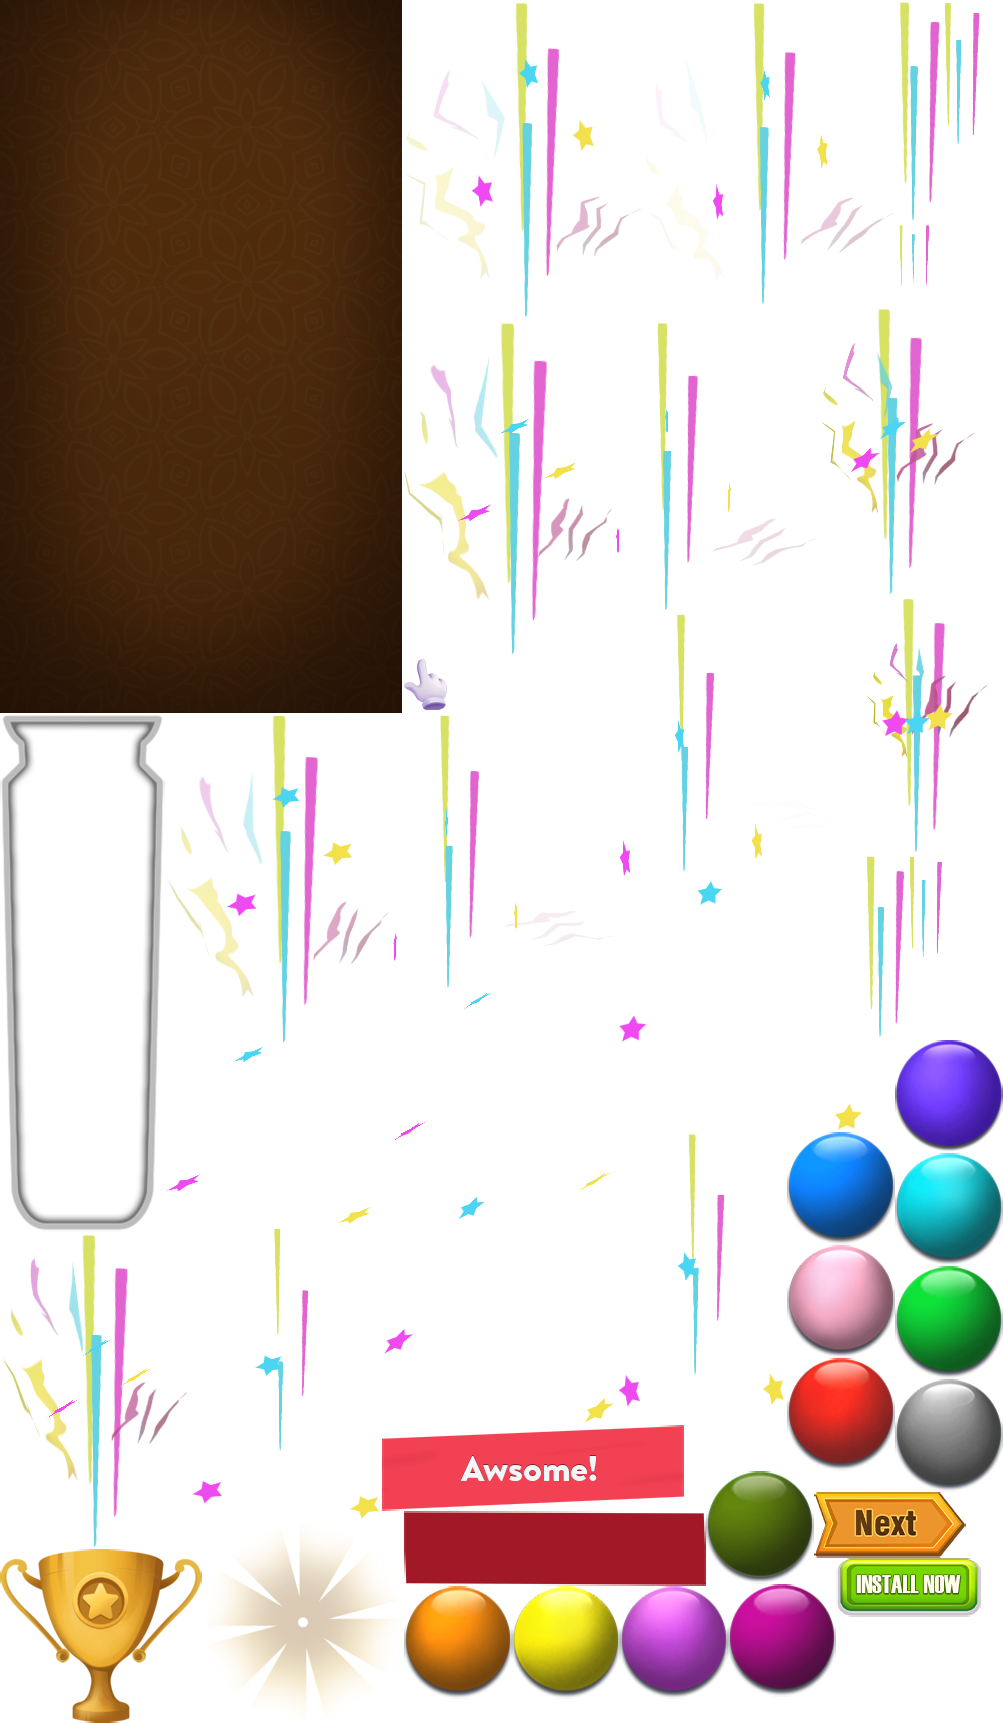
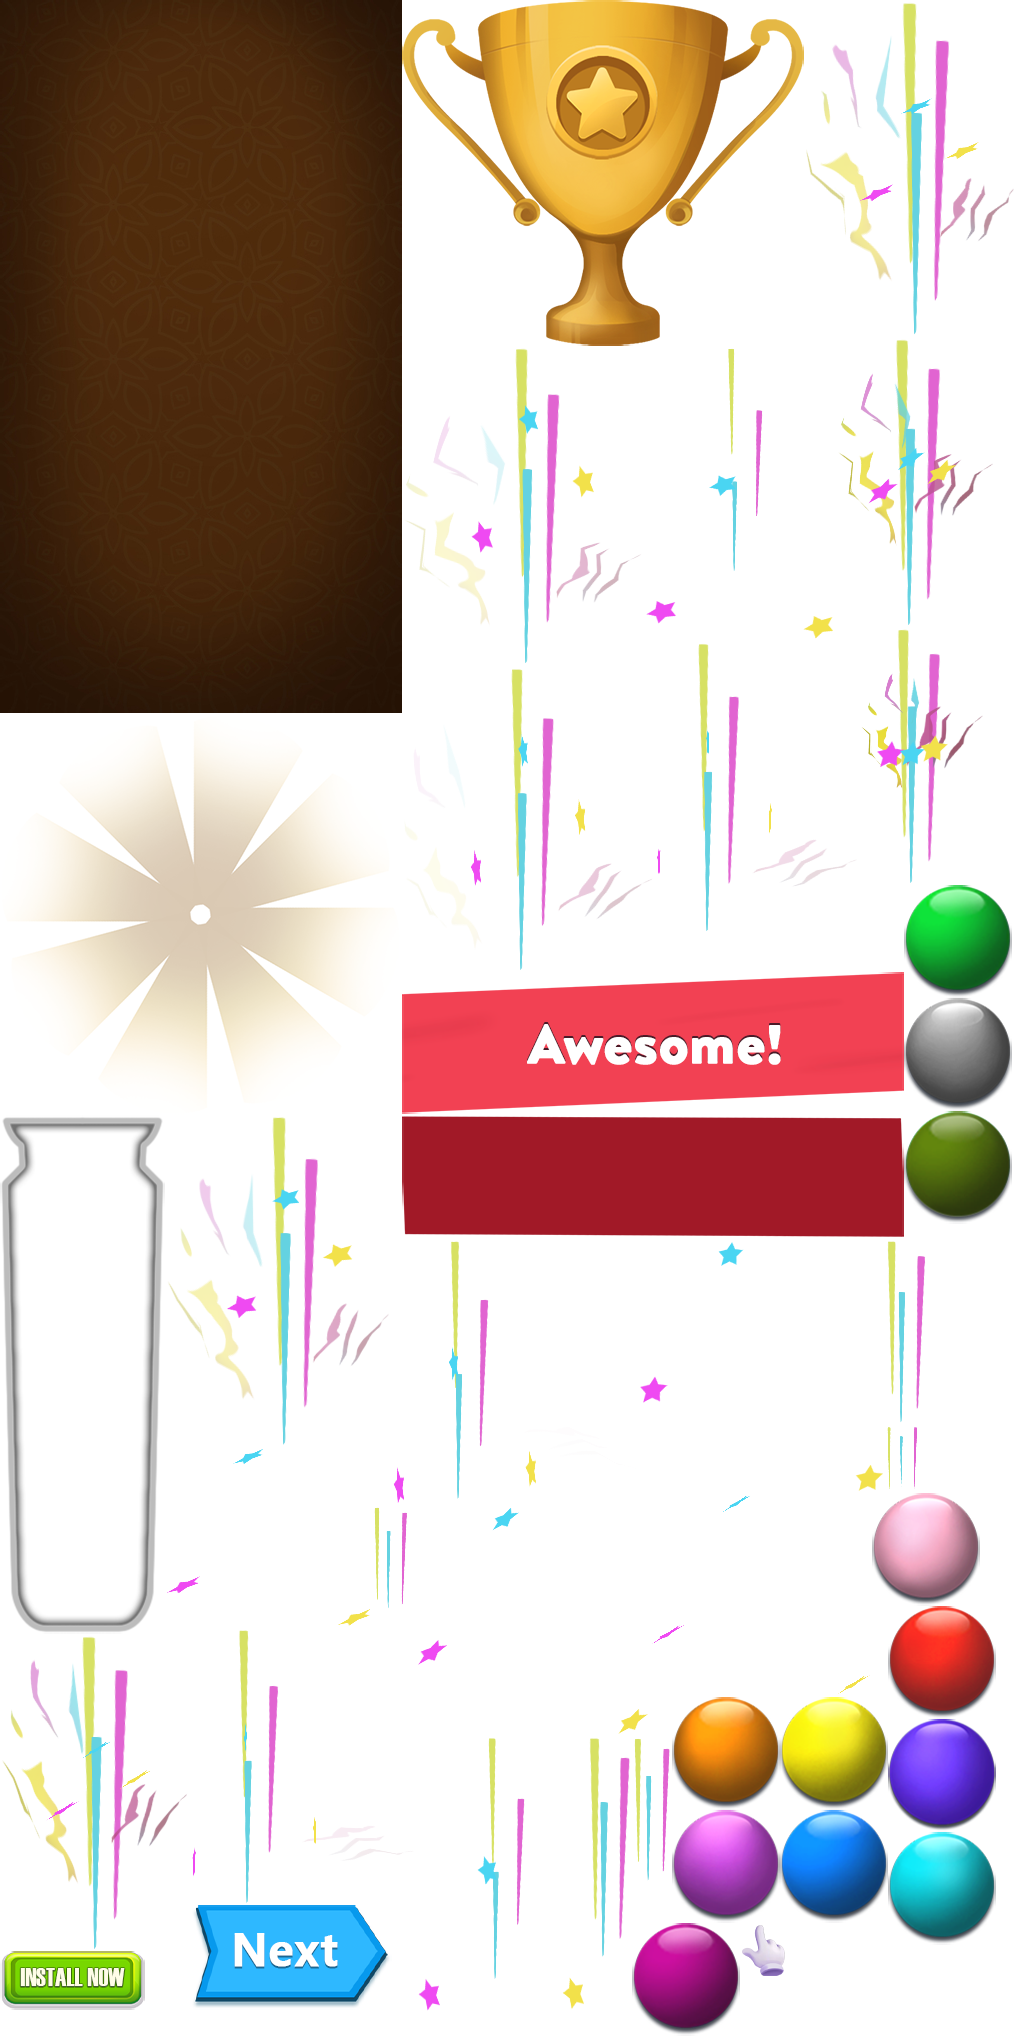
dddđ

diff --git a/libs/Sortball.js b/libs/Sortball.js
@@ -18,7 +18,8 @@ var map = [
 ]
 var listBottle = []
 function changeOrientation(event) {
-    if (tutorial) clearTutorial()
+    if (tutorialRun) clearTutorial()
+    clearInterval(tutorial);
     removeEvent()
     stage.removeAllChildren()
     listBottle = []
@@ -27,7 +28,7 @@ function changeOrientation(event) {
     setMap()
     if (!complete) gameWin()
     else addEvent();
-    if (tutorial) renderTutorial()
+    renderTutorial()
 }
 async function gameinit() {
     createjs.RotationPlugin.install();
@@ -49,10 +50,8 @@ function setStage() {
     height = window.innerHeight
         || document.documentElement.clientHeight
         || document.body.clientHeight;
-    console.log({ width: width, height: height });
 
     if (width >= height || !isMobile) width = height / 1.7;
-    console.log({ width: width, height: height });
     radiusMask = width / 22
 
     canvas = document.getElementById("myCanvas");
@@ -75,78 +74,77 @@ function setAnimation() {
         framerate: 25,
         frames: [
             [1, 1, 400, 711, 0, 0, 0],
-            [1, 714, 163, 517, 0, 0, 0],
-            [403, 1, 240, 318, 0, -186, -18],
-            [645, 1, 251, 304, 0, -191, -10],
-            [166, 714, 224, 330, 0, -191, -29],
-            [403, 321, 210, 335, 0, -199, -48],
-            [1, 1233, 188, 315, 0, -215, -92],
-            [166, 1046, 205, 179, 0, -212, -158],
-            [191, 1227, 190, 293, 0, -220, -14],
-            [1, 1550, 200, 172, 0, 0, 0],
-            [203, 1522, 200, 200, 0, 0, 0],
-            [615, 321, 202, 290, 0, -258, -3],
-            [819, 307, 157, 288, 0, -237, -144],
-            [392, 714, 224, 275, 0, -253, -1],
-            [618, 613, 245, 264, 0, -243, 0],
-            [618, 879, 245, 252, 0, -194, -201],
-            [865, 597, 124, 256, 0, -258, -202],
-            [392, 991, 220, 202, 0, -206, -174],
-            [383, 1195, 232, 229, 0, -201, -186],
-            [617, 1133, 169, 275, 0, -231, -4],
-            [383, 1426, 300, 84, 0, 0, 0],
-            [405, 1512, 300, 73, 0, 0, 0],
-            [898, 1, 43, 221, 0, -294, -264],
-            [865, 855, 41, 184, 0, -294, -328],
-            [405, 1587, 106, 111, 0, 0, 0],
-            [513, 1587, 106, 111, 0, 0, 0],
-            [621, 1587, 106, 111, 0, 0, 0],
-            [788, 1133, 106, 111, 0, 0, 0],
-            [788, 1246, 106, 111, 0, 0, 0],
-            [943, 1, 38, 145, 0, -294, -394],
-            [788, 1359, 106, 111, 0, 0, 0],
-            [896, 1041, 106, 111, 0, 0, 0],
-            [896, 1154, 106, 111, 0, 0, 0],
-            [896, 1267, 106, 111, 0, 0, 0],
-            [896, 1380, 106, 111, 0, 0, 0],
-            [908, 855, 35, 104, 0, -294, -462],
-            [403, 658, 45, 53, 0, -5, -1],
-            [707, 1472, 106, 111, 0, 0, 0],
-            [729, 1585, 106, 111, 0, 0, 0],
-            [815, 1493, 150, 64, 0, 0, 0],
-            [837, 1559, 143, 57, 0, 0, 0],
-            [898, 224, 32, 62, 0, -294, -531]
+            [1, 714, 400, 400, 0, 0, 0],
+            [403, 1, 400, 344, 0, 0, 0],
+            [1, 1116, 163, 517, 0, 0, 0],
+            [403, 347, 240, 318, 0, -186, -18],
+            [166, 1116, 224, 330, 0, -191, -29],
+            [805, 1, 210, 335, 0, -199, -48],
+            [403, 667, 251, 304, 0, -191, -10],
+            [1, 1635, 188, 315, 0, -215, -92],
+            [645, 347, 190, 293, 0, -220, -14],
+            [656, 642, 202, 290, 0, -258, -3],
+            [837, 338, 157, 288, 0, -237, -144],
+            [403, 973, 500, 140, 0, 0, 0],
+            [403, 1115, 500, 123, 0, 0, -9],
+            [392, 1240, 245, 264, 0, -243, 0],
+            [639, 1240, 245, 252, 0, -194, -201],
+            [166, 1448, 205, 179, 0, -212, -158],
+            [191, 1629, 224, 275, 0, -253, -1],
+            [860, 628, 124, 256, 0, -258, -202],
+            [417, 1506, 232, 229, 0, -201, -186],
+            [651, 1494, 220, 202, 0, -206, -174],
+            [417, 1737, 169, 275, 0, -231, -4],
+            [588, 1737, 43, 221, 0, -294, -264],
+            [191, 1906, 200, 103, 0, 0, 0],
+            [886, 1240, 41, 184, 0, -294, -328],
+            [1, 1952, 143, 57, 0, 0, 0],
+            [633, 1737, 38, 145, 0, -294, -394],
+            [673, 1698, 106, 111, 0, 0, 0],
+            [781, 1698, 106, 111, 0, 0, 0],
+            [673, 1811, 106, 111, 0, 0, 0],
+            [781, 1811, 106, 111, 0, 0, 0],
+            [873, 1494, 106, 111, 0, 0, 0],
+            [373, 1506, 35, 104, 0, -294, -462],
+            [889, 1607, 106, 111, 0, 0, 0],
+            [889, 1720, 106, 111, 0, 0, 0],
+            [889, 1833, 106, 111, 0, 0, 0],
+            [905, 886, 106, 111, 0, 0, 0],
+            [905, 999, 106, 111, 0, 0, 0],
+            [905, 1112, 106, 111, 0, 0, 0],
+            [633, 1924, 106, 111, 0, 0, 0],
+            [741, 1924, 45, 53, 0, -5, -1],
+            [886, 1426, 32, 62, 0, -294, -531]
         ],
-
         "animations": {
-            "ball_1": { "frames": [24] },
-            "ball_2": { "frames": [28] },
-            "ball_3": { "frames": [30] },
-            "ball_4": { "frames": [31] },
-            "ball_5": { "frames": [32] },
-            "ball_6": { "frames": [33] },
-            "ball_7": { "frames": [34] },
-            "ball_8": { "frames": [37] },
-            "ball_9": { "frames": [38] },
-            "ball_10": { "frames": [25] },
-            "ball_11": { "frames": [26] },
-            "ball_12": { "frames": [27] },
+            "ball_1": { "frames": [27] },
+            "ball_2": { "frames": [31] },
+            "ball_3": { "frames": [33] },
+            "ball_4": { "frames": [34] },
+            "ball_5": { "frames": [35] },
+            "ball_6": { "frames": [36] },
+            "ball_7": { "frames": [37] },
+            "ball_8": { "frames": [38] },
+            "ball_9": { "frames": [39] },
+            "ball_10": { "frames": [28] },
+            "ball_11": { "frames": [29] },
+            "ball_12": { "frames": [30] },
             "bg": { "frames": [0] },
-            "bottle": { "frames": [1] },
-            "confetti": { "frames": [41, 35, 29, 23, 22, 16, 12, 6, 5, 4, 2, 3, 11, 13, 14, 19, 8, 7, 17, 18, 15] },
-            "img_cup": { "frames": [9] },
-            "eff_cup": { "frames": [10] },
-            "win2": { "frames": [20] },
-            "win1": { "frames": [21] },
-            "hand_tut": { "frames": [36] },
-            "btn_next": { "frames": [39] },
-            "btn_install_now": { "frames": [40] }
+            "eff_cup": { "frames": [1] },
+            "img_cup": { "frames": [2] },
+            "bottle": { "frames": [3] },
+            "confetti": { "frames": [41, 32, 26, 24, 22, 18, 11, 8, 6, 5, 4, 7, 10, 17, 14, 21, 9, 16, 20, 19, 15] },
+            "win2": { "frames": [12] },
+            "win1": { "frames": [13] },
+            "btn_next": { "frames": [23] },
+            "btn_install_now": { "frames": [25] },
+            "hand_tut": { "frames": [40] }
         },
     });
     setBackground()
     setMap()
     addEvent();
-    if (tutorial) renderTutorial()
+    renderTutorial()
 }
 var bottleBase, ballBase
 function setBackground() {
@@ -346,7 +344,15 @@ function currentMouse(evt) {
     return { x: evt.stageX, y: evt.stageY }
 }
 function upBallChoose() {
-    if (tutorial) clearTutorial()
+    timeTutorial = 5
+    if (tutorialRun) clearTutorial()
+    clearInterval(tutorial);
+    tutorial = setInterval(() => {
+        timeTutorial--
+        if (timeTutorial == 0) {
+            renderTutorial()
+        }
+    }, 1000);
     var indexChoose = listBottleA[listBottleA.length - 1]
     var ball = listBottle[indexChoose].listBall[0]
     var y = indexChoose < 3 ? bottleBase.startY[0] - ballBase.height * 1.2 : bottleBase.startY[1] - ballBase.height * 1.2
@@ -455,6 +461,7 @@ function boottlePass(x, y) {
 
 var eff_cup = null
 function gameWin() {
+    clearInterval(tutorial);
     stopAudio()
     you_Win.play()
     complete = false
@@ -472,7 +479,8 @@ function gameWin() {
     var win2 = new createjs.Sprite(spriteSheet, "win2");
     win2.scale = stage.canvas.width / win2.getBounds().width
     win2.x = -win2.getBounds().width * win2.scale
-    win2.y = stage.canvas.height / 12.8
+    win2.y = stage.canvas.height / 12
+
 
     var cup = new createjs.Sprite(spriteSheet, "img_cup");
     cup.scale = (stage.canvas.width / 4) / cup.getBounds().width
@@ -486,7 +494,7 @@ function gameWin() {
 
 
     var btn_next = new createjs.Sprite(spriteSheet, "btn_next");
-    btn_next.scale = ((stage.canvas.width / 2) / cup.getBounds().width) * 0.9
+    btn_next.scale = ((stage.canvas.width / 3.5) / btn_next.getBounds().width)
     btn_next.x = - btn_next.getBounds().width * btn_next.scale
     btn_next.y = cup.y + cup.getBounds().height * ((stage.canvas.width / 2) / cup.getBounds().width) * 1.3
 
@@ -522,7 +530,7 @@ function gameWin() {
             }, 200, createjs.Ease.linear)
             .call(() => {
                 createjs.Tween.get(btn_next, { loop: true, bounce: true })
-                    .to({ scale: cup.scale + 0.005, }, 350, createjs.Ease.linear)
+                    .to({ scale: cup.scale + 0.01, }, 350, createjs.Ease.linear)
             })
     }, 400);
     btn_next.addEventListener("click", () => { getLinkInstall() }, false);
@@ -540,9 +548,13 @@ function stopAudio() {
     snd.pause();
     snd.currentTime = 0;
 }
-var index0 = 3, index1 = 5, ballTemp = null, hand_tut, tutorial = true;
+var index0 = 3, index1 = 5, ballTemp = null, hand_tut, tutorial = null;
+var timeTutorial = 5, tutorialRun = false;
 function renderTutorial() {
-    // var color = map[index0][map[index0].lastIndexOf(-1) + 1]
+    tutorialRun = true
+    var index = createTutorial()
+    index0 = index.index0
+    index1 = index.index1
     var ball = listBottle[index0].listBall[0]
     ballTemp = ball.clone()
 
@@ -560,7 +572,8 @@ function renderTutorial() {
     let xBall0 = index0 < 3 ? ballBase.startX[index0] : ballBase.startX[index0 - 3],
         yBall0 = index0 < 3 ? bottleBase.startY[0] - ballBase.height * 1.2 : bottleBase.startY[1] - ballBase.height * 1.2,
         xBall1 = index1 < 3 ? ballBase.startX[index1] : ballBase.startX[index1 - 3],
-        yBall1 = index1 < 3 ? ballBase.startY1[indexNew] : ballBase.startY2[indexNew]
+        yBall1 = index1 < 3 ? bottleBase.startY[0] - ballBase.height * 1.2 : bottleBase.startY[1] - ballBase.height * 1.2,
+        yBall2 = index1 < 3 ? ballBase.startY1[indexNew] : ballBase.startY2[indexNew]
     var distance = getDistance({ x: xBall0, y: yBall0 }, { x: xBall1, y: yBall0 })
     var time = distance / speed
 
@@ -580,8 +593,8 @@ function renderTutorial() {
         .wait(600)
         .to({ y: yBall0 }, 200, createjs.Ease.linear)
         .wait(1000)
-        .to({ x: xBall1 }, time, createjs.Ease.linear)
-        .to({ y: yBall1 }, 600, createjs.Ease.bounceOut)
+        .to({ x: xBall1, y: yBall1 }, time, createjs.Ease.linear)
+        .to({ y: yBall2 }, 600, createjs.Ease.bounceOut)
         .wait(100)
         .to({ alpha: 0 }, 200, createjs.Ease.linear)
         .wait(2000)
@@ -592,18 +605,72 @@ function renderTutorial() {
         .wait(2000)
 }
 function clearTutorial() {
-    tutorial = false;
     createjs.Tween.removeTweens(hand_tut);
     createjs.Tween.removeTweens(ballTemp);
     createjs.Tween.removeTweens(listBottle[index0].listBall[0]);
     listBottle[index0].listBall[0].alpha = 1
     stage.removeChild(hand_tut)
     stage.removeChild(ballTemp)
-
+    tutorialRun = false
 }
-
 function getLinkInstall() {
     window.open("https://play.google.com/store/apps/details?id=sort.ball.puzzle.color.match.puzzle.sorting")
+}
+function createTutorial() {
+    var indexTemp0, indexTemp1, indexEmpty
+    var index0, index1
+    for (let i = 0; i < map.length; i++) {
+        const arrColor = map[i];
+        var color0 = arrColor[arrColor.lastIndexOf(-1) + 1]
+        var complete
+        if (color0 >= 0) {
+            complete = arrColor.every(function (item) {
+                return item == color0;
+            });
+        } else complete = true
+        if (!complete) {
+            indexTemp0 = i
+            for (let j = 0; j < map.length; j++) {
+                const newColorArr = map[j];
+                if (newColorArr.lastIndexOf(-1) >= 0 && newColorArr.lastIndexOf(-1) < 3) {
+                    if (newColorArr[newColorArr.lastIndexOf(-1) + 1] == color0 && j != i) {
+                        indexTemp1 = j
+                    }
+                }
+                else if (newColorArr.lastIndexOf(-1) == 3) indexEmpty = j
+            }
+            if (indexTemp1 >= 0) {
+                if (reverseIndex(indexTemp0, indexTemp1)) return { index0: indexTemp1, index1: indexTemp0 }
+                else return { index0: indexTemp0, index1: indexTemp1 }
+            } else if (indexEmpty >= 0) {
+                index0 = indexTemp0
+                index1 = indexEmpty
+            }
+        }
+    }
+    if (index0 >= 0 && index1 >= 0) {
+        return { index0: index0, index1: index1 }
+    }
+    else return null
+
+}
+function reverseIndex(index0, index1) {
+    var arrcolor0 = map[index0]
+    var arrcolor1 = map[index1]
+    if (arrcolor0.lastIndexOf(-1) < 0) return false
+    else {
+        var arr0 = unique(arrcolor0)
+        var arr1 = unique(arrcolor1)
+        if (arr0.length > arr1.length) return false
+        else if (arr0.length == arr1.length) {
+            if (arrcolor0.lastIndexOf(-1) > arrcolor1.lastIndexOf(-1)) return false
+            else return true
+        }
+        else return true
+    }
+}
+function unique(arr) {
+    return Array.from(new Set(arr))
 }
 
[1 lines of base64/hex data omitted]
